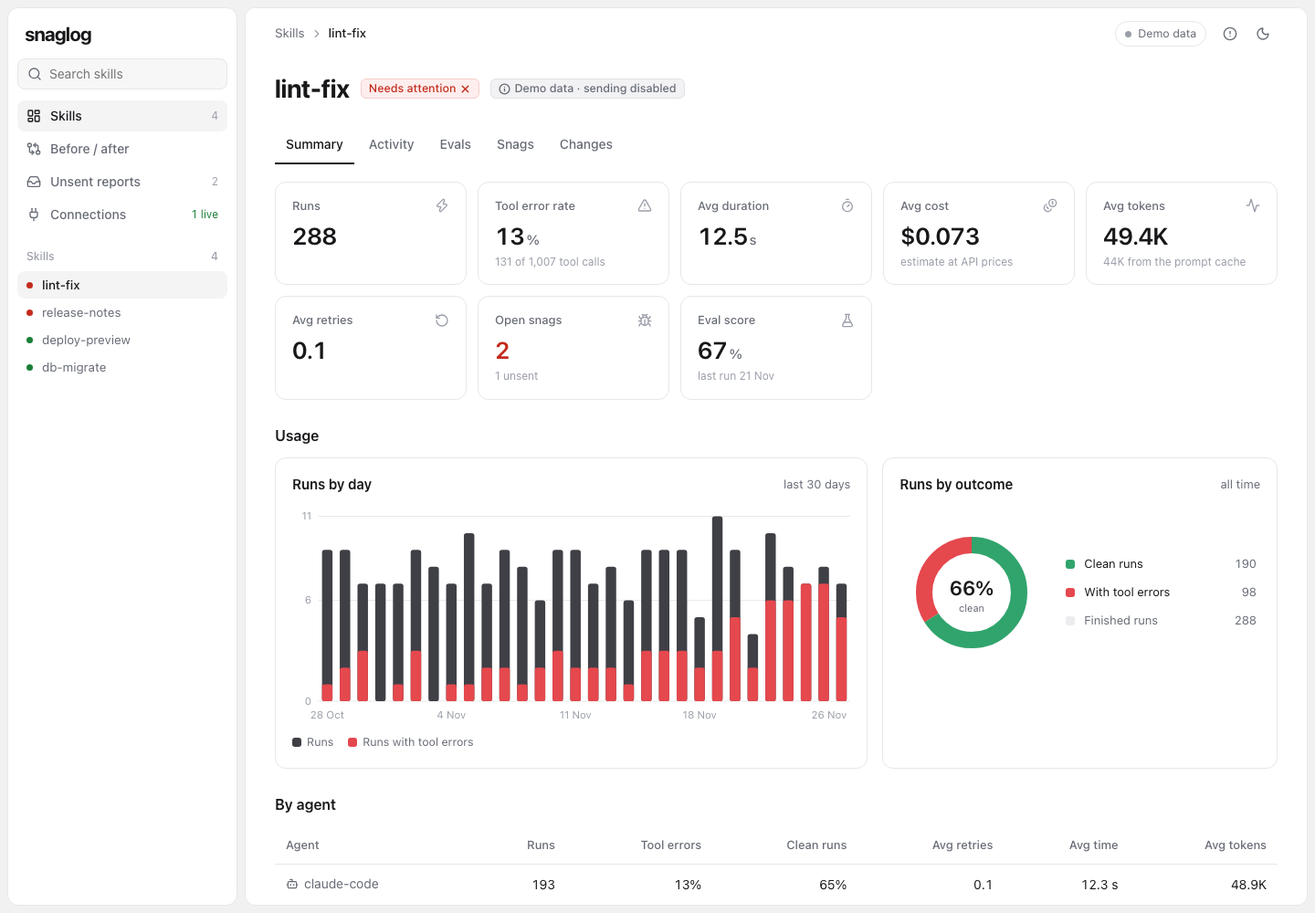
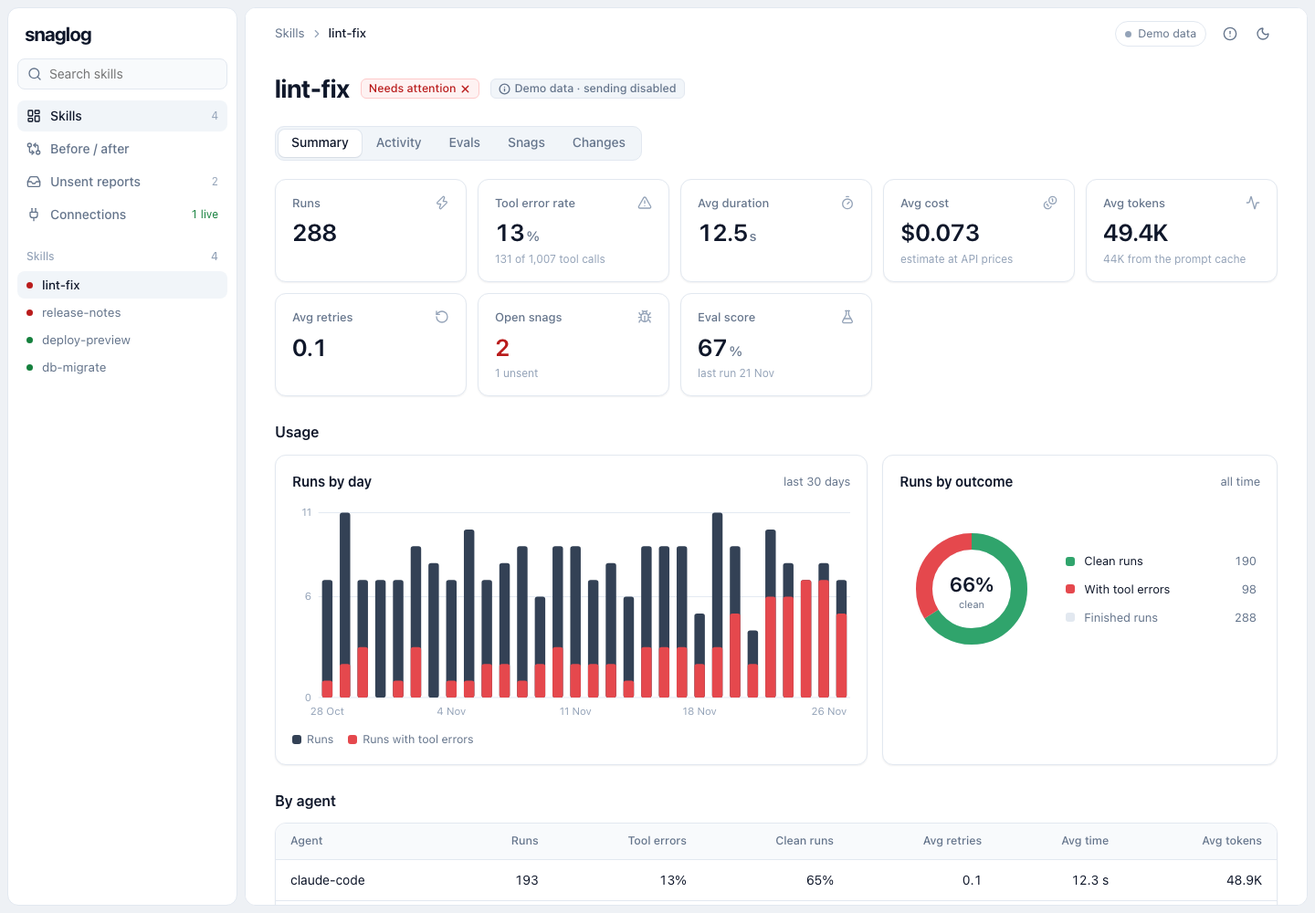
feat(dashboard): framed tables, custom selects and a slate palette
- Tables sit in a bordered frame with a shaded header row.
- Selects use a Lucide chevron instead of the native arrow.
- Skill tabs are a segmented control.
- Slate-based palette and soft card shadows in both themes.
- The receiver pill says "Collecting telemetry" and explains on hover
  that it records skill use only while the dashboard runs.
- Connections page has no icons; unsupported agents are a table with
  a status per agent.

diff --git a/cli/dashboard/index.html b/cli/dashboard/index.html
@@ -7,40 +7,43 @@
 <title>snaglog</title>
 <style nonce="__NONCE__">
 :root {
-  --canvas: #f1f1f2; --page: #ffffff; --side: #ffffff; --card: #ffffff; --hover: #f4f4f5; --sunken: #f7f7f8;
-  --line: #e7e7ea; --line-strong: #d9d9de;
-  --text: #18181b; --muted: #676b75; --faint: #9a9ea8;
-  --accent: #18181b; --accent-fg: #ffffff; --link: #0969da;
-  --ok: #1a7f37; --ok-bg: #e9f7ee; --ok-line: #c3e8cf;
-  --bad: #c42b1c; --bad-bg: #fdeeed; --bad-line: #f6cdca;
-  --warn: #9a6700; --warn-bg: #fff6e3; --warn-line: #f2deb0;
-  --neutral-bg: #f2f2f4; --neutral-line: #e2e2e7;
-  --chart-run: #3f3f46; --chart-bad: #e5484d; --chart-ok: #30a46c; --chart-track: #ececef;
+  --canvas: #eef1f5; --page: #ffffff; --side: #ffffff; --card: #ffffff; --hover: #f1f5f9; --sunken: #f8fafc;
+  --line: #e2e8f0; --line-strong: #cbd5e1;
+  --text: #0f172a; --muted: #64748b; --faint: #94a3b8;
+  --accent: #0f172a; --accent-fg: #ffffff; --link: #2563eb;
+  --ok: #15803d; --ok-bg: #ecfdf3; --ok-line: #bbf7d0;
+  --bad: #b91c1c; --bad-bg: #fef2f2; --bad-line: #fecaca;
+  --warn: #a16207; --warn-bg: #fefce8; --warn-line: #fde68a;
+  --neutral-bg: #f1f5f9; --neutral-line: #e2e8f0;
+  --chart-run: #334155; --chart-bad: #e5484d; --chart-ok: #30a46c; --chart-track: #e2e8f0;
+  --shadow: 0 1px 2px rgba(15, 23, 42, .06);
   color-scheme: light;
 }
 :root[data-theme="dark"] {
-  --canvas: #08090a; --page: #111214; --side: #111214; --card: #16171a; --hover: #1c1d21; --sunken: #18191c;
-  --line: #232428; --line-strong: #303237;
-  --text: #ececee; --muted: #a0a3ab; --faint: #6e727b;
-  --accent: #f4f4f5; --accent-fg: #111214; --link: #6cb6ff;
-  --ok: #4cc38a; --ok-bg: #12261b; --ok-line: #1f4a33;
-  --bad: #ff7b72; --bad-bg: #2d1515; --bad-line: #5a2421;
-  --warn: #e3b341; --warn-bg: #2a2110; --warn-line: #574313;
-  --neutral-bg: #1c1d21; --neutral-line: #2c2e34;
-  --chart-run: #c9cbd1; --chart-bad: #ff6369; --chart-ok: #4cc38a; --chart-track: #24262b;
+  --canvas: #020617; --page: #0b1120; --side: #0b1120; --card: #0f172a; --hover: #1e293b; --sunken: #111a2e;
+  --line: #1e293b; --line-strong: #334155;
+  --text: #e2e8f0; --muted: #94a3b8; --faint: #64748b;
+  --accent: #e2e8f0; --accent-fg: #0f172a; --link: #60a5fa;
+  --ok: #4ade80; --ok-bg: #0c2a1a; --ok-line: #166534;
+  --bad: #f87171; --bad-bg: #2a1215; --bad-line: #7f1d1d;
+  --warn: #facc15; --warn-bg: #2a2410; --warn-line: #713f12;
+  --neutral-bg: #1e293b; --neutral-line: #334155;
+  --chart-run: #cbd5e1; --chart-bad: #f87171; --chart-ok: #4ade80; --chart-track: #1e293b;
+  --shadow: 0 1px 2px rgba(0, 0, 0, .3);
   color-scheme: dark;
 }
 @media (prefers-color-scheme: dark) {
   :root:not([data-theme="light"]) {
-    --canvas: #08090a; --page: #111214; --side: #111214; --card: #16171a; --hover: #1c1d21; --sunken: #18191c;
-    --line: #232428; --line-strong: #303237;
-    --text: #ececee; --muted: #a0a3ab; --faint: #6e727b;
-    --accent: #f4f4f5; --accent-fg: #111214; --link: #6cb6ff;
-    --ok: #4cc38a; --ok-bg: #12261b; --ok-line: #1f4a33;
-    --bad: #ff7b72; --bad-bg: #2d1515; --bad-line: #5a2421;
-    --warn: #e3b341; --warn-bg: #2a2110; --warn-line: #574313;
-    --neutral-bg: #1c1d21; --neutral-line: #2c2e34;
-    --chart-run: #c9cbd1; --chart-bad: #ff6369; --chart-ok: #4cc38a; --chart-track: #24262b;
+    --canvas: #020617; --page: #0b1120; --side: #0b1120; --card: #0f172a; --hover: #1e293b; --sunken: #111a2e;
+    --line: #1e293b; --line-strong: #334155;
+    --text: #e2e8f0; --muted: #94a3b8; --faint: #64748b;
+    --accent: #e2e8f0; --accent-fg: #0f172a; --link: #60a5fa;
+    --ok: #4ade80; --ok-bg: #0c2a1a; --ok-line: #166534;
+    --bad: #f87171; --bad-bg: #2a1215; --bad-line: #7f1d1d;
+    --warn: #facc15; --warn-bg: #2a2410; --warn-line: #713f12;
+    --neutral-bg: #1e293b; --neutral-line: #334155;
+    --chart-run: #cbd5e1; --chart-bad: #f87171; --chart-ok: #4ade80; --chart-track: #1e293b;
+    --shadow: 0 1px 2px rgba(0, 0, 0, .3);
     color-scheme: dark;
   }
 }
@@ -63,7 +66,11 @@ button, select, input, textarea { font: inherit; color: var(--text); }
 .icon-btn { width: 32px; padding: 0; justify-content: center; border-color: transparent; background: transparent; color: var(--muted); }
 .icon-btn:hover { color: var(--text); }
 select, input[type="text"], input:not([type]), textarea { background: var(--card); border: 1px solid var(--line-strong); border-radius: 8px; padding: 6px 10px; }
-select { height: 32px; }
+.select { position: relative; display: inline-flex; align-items: center; max-width: 100%; }
+.select select { appearance: none; -webkit-appearance: none; height: 34px; max-width: 100%; padding: 0 34px 0 12px; border-radius: 8px; border: 1px solid var(--line-strong); background: var(--card); box-shadow: var(--shadow); cursor: pointer; text-overflow: ellipsis; }
+.select select:hover { border-color: var(--faint); }
+.select select:focus-visible { outline: 2px solid var(--link); outline-offset: 1px; }
+.select .ic { position: absolute; right: 10px; pointer-events: none; color: var(--muted); }
 
 /* shell: two separate panels on a tinted canvas */
 .app { display: grid; grid-template-columns: 252px minmax(0, 1fr); gap: 8px; padding: 8px; height: 100vh; }
@@ -98,7 +105,7 @@ select { height: 32px; }
 .topbar .crumbs .here { color: var(--text); font-weight: 500; }
 .topbar .crumbs .ic { color: var(--faint); }
 .topbar .right { margin-left: auto; display: flex; align-items: center; gap: 4px; }
-.status-pill { display: inline-flex; align-items: center; gap: 7px; height: 28px; margin-right: 6px; padding: 0 10px; border-radius: 999px; border: 1px solid var(--line); color: var(--muted); font-size: 12.5px; cursor: default; white-space: nowrap; }
+.status-pill { display: inline-flex; outline: none; align-items: center; gap: 7px; height: 28px; margin-right: 6px; padding: 0 10px; border-radius: 999px; border: 1px solid var(--line); color: var(--muted); font-size: 12.5px; cursor: default; white-space: nowrap; }
 .tip { position: relative; }
 .tip-box { display: none; position: absolute; right: 0; top: calc(100% + 6px); width: 280px; padding: 12px 14px; background: var(--card); border: 1px solid var(--line); border-radius: 10px; box-shadow: 0 8px 24px rgba(0, 0, 0, .10); font-size: 13px; color: var(--muted); z-index: 5; }
 .tip-box strong { display: block; color: var(--text); font-weight: 600; margin-bottom: 4px; }
@@ -129,7 +136,7 @@ h2 { font-size: 16px; font-weight: 600; margin: 28px 0 12px; }
 
 /* stat cards */
 .stats { display: grid; grid-template-columns: repeat(auto-fit, minmax(210px, 1fr)); gap: 12px; }
-.stat { padding: 16px 18px; background: var(--card); border: 1px solid var(--line); border-radius: 12px; }
+.stat { padding: 16px 18px; background: var(--card); border: 1px solid var(--line); border-radius: 12px; box-shadow: var(--shadow); }
 .stat .head { display: flex; align-items: center; justify-content: space-between; gap: 8px; color: var(--muted); font-size: 13px; font-weight: 500; }
 .stat .head .ic { color: var(--faint); }
 .stat .value { margin-top: 8px; font-size: 26px; font-weight: 600; font-variant-numeric: tabular-nums; letter-spacing: -0.02em; line-height: 1.2; }
@@ -147,10 +154,10 @@ h2 { font-size: 16px; font-weight: 600; margin: 28px 0 12px; }
 .tab-card.active .t { color: var(--text); }
 
 /* underline tabs (Plane-like) */
-.tabs { display: flex; gap: 4px; margin: 0 0 20px; }
-.tabs button { background: none; border: 0; padding: 10px 12px; margin-bottom: -1px; border-bottom: 2px solid transparent; color: var(--muted); cursor: pointer; font-weight: 500; }
+.tabs { display: inline-flex; gap: 2px; padding: 3px; margin: 0 0 20px; background: var(--hover); border: 1px solid var(--line); border-radius: 10px; }
+.tabs button { background: none; border: 0; height: 30px; padding: 0 14px; border-radius: 7px; color: var(--muted); cursor: pointer; font-weight: 500; }
 .tabs button:hover { color: var(--text); }
-.tabs button.active { color: var(--text); border-bottom-color: var(--text); }
+.tabs button.active { background: var(--card); color: var(--text); box-shadow: var(--shadow), 0 0 0 1px var(--line); }
 
 /* badges */
 .badge { display: inline-flex; align-items: center; gap: 4px; height: 22px; padding: 0 8px; border-radius: 6px; font-size: 12.5px; font-weight: 500; border: 1px solid var(--neutral-line); background: var(--neutral-bg); color: var(--muted); white-space: nowrap; }
@@ -160,10 +167,14 @@ h2 { font-size: 16px; font-weight: 600; margin: 28px 0 12px; }
 .badge.warn { background: var(--warn-bg); border-color: var(--warn-line); color: var(--warn); }
 
 /* tables (Stripe-like) */
-.table-wrap { overflow-x: auto; }
+.table-wrap { overflow-x: auto; background: var(--card); border: 1px solid var(--line); border-radius: 12px; box-shadow: var(--shadow); }
+.card .table-wrap { box-shadow: none; }
 table { width: 100%; border-collapse: collapse; }
-th, td { text-align: left; padding: 11px 12px; border-bottom: 1px solid var(--line); vertical-align: middle; white-space: nowrap; }
-th { font-weight: 500; font-size: 13px; color: var(--muted); }
+th, td { text-align: left; padding: 12px 12px; border-bottom: 1px solid var(--line); vertical-align: middle; white-space: nowrap; }
+tbody tr:last-child td { border-bottom: 0; }
+th:first-child, td:first-child { padding-left: 16px; }
+th:last-child, td:last-child { padding-right: 16px; }
+th { padding-top: 10px; padding-bottom: 10px; background: var(--sunken); font-weight: 500; font-size: 12.5px; color: var(--muted); }
 th[title] { cursor: help; }
 th.sortable { cursor: pointer; user-select: none; }
 th.sorted::after { content: " ↓"; color: var(--muted); }
@@ -182,12 +193,11 @@ tr.row-link:hover td { background: var(--hover); }
 .bars rect { fill: var(--chart-track); }
 .bars rect.on { fill: var(--chart-run); opacity: .55; }
 .bars rect.last { fill: var(--chart-run); opacity: 1; }
-.agents { display: inline-flex; align-items: center; gap: 6px; color: var(--muted); }
 
 /* cards and charts */
 .grid2 { display: grid; grid-template-columns: minmax(0, 1.5fr) minmax(0, 1fr); gap: 16px; }
 @media (max-width: 1100px) { .grid2 { grid-template-columns: 1fr; } }
-.card { background: var(--card); border: 1px solid var(--line); border-radius: 12px; padding: 18px; }
+.card { background: var(--card); border: 1px solid var(--line); border-radius: 12px; padding: 18px; box-shadow: var(--shadow); }
 .card h3 { margin: 0 0 14px; font-size: 15px; font-weight: 600; display: flex; align-items: center; gap: 8px; }
 .card h3 .meta { margin-left: auto; font-weight: 400; font-size: 13px; color: var(--muted); }
 .chart svg { width: 100%; height: auto; display: block; }
@@ -244,9 +254,9 @@ dl.defs dt { font-weight: 600; }
 dl.defs dd { margin: 0; color: var(--muted); }
 .delta.better { color: var(--ok); }
 .delta.worse { color: var(--bad); }
-.agent-list .agent { display: flex; align-items: center; gap: 14px; padding: 14px 4px; border-bottom: 1px solid var(--line); }
+.agent-list .agent { display: flex; align-items: flex-start; gap: 14px; padding: 16px 4px; border-bottom: 1px solid var(--line); }
 .agent-list .agent:last-child { border-bottom: 0; }
-.agent-list .icon { width: 36px; height: 36px; border-radius: 9px; background: var(--sunken); border: 1px solid var(--line); display: grid; place-items: center; color: var(--muted); flex: none; }
+.agent-list .mono { font-size: 12.5px; margin-top: 2px; }
 .agent-list .meta { margin-left: auto; text-align: right; display: flex; flex-direction: column; align-items: flex-end; gap: 4px; }
 .tips { margin: 6px 0 0; padding-left: 18px; color: var(--muted); font-size: 12.5px; }
 </style>
@@ -267,7 +277,10 @@ dl.defs dd { margin: 0; color: var(--muted); }
     <header class="topbar">
       <nav class="crumbs" id="crumbs" aria-label="Breadcrumb"></nav>
       <div class="right">
-        <span class="status-pill" id="recv"><span class="dot" id="recv-dot"></span><span id="recv-text">Receiver</span></span>
+        <span class="tip">
+          <span class="status-pill" id="recv" tabindex="0" aria-describedby="recv-tip"><span class="dot" id="recv-dot"></span><span id="recv-text">Telemetry</span></span>
+          <span class="tip-box" role="tooltip" id="recv-tip"></span>
+        </span>
         <span class="tip">
           <button class="btn icon-btn" type="button" aria-label="Where your data is kept" aria-describedby="privacy-tip"><span data-icon="circle-alert"></span></button>
           <span class="tip-box" role="tooltip" id="privacy-tip"><strong>Data stays on this machine</strong>Telemetry, eval results and unsent reports are stored locally. Nothing is sent anywhere until you send a report to GitHub.</span>
@@ -282,7 +295,7 @@ dl.defs dd { margin: 0; color: var(--muted); }
 'use strict';
 // Icons: Lucide (https://lucide.dev), ISC license, version 1.72.0.
 // See THIRD_PARTY_NOTICES.md. Shape data only; built with createElementNS.
-const ICONS = {"layout-dashboard":[["rect",{"width":"7","height":"9","x":"3","y":"3","rx":"1"}],["rect",{"width":"7","height":"5","x":"14","y":"3","rx":"1"}],["rect",{"width":"7","height":"9","x":"14","y":"12","rx":"1"}],["rect",{"width":"7","height":"5","x":"3","y":"16","rx":"1"}]],"git-compare-arrows":[["circle",{"cx":"5","cy":"6","r":"3"}],["path",{"d":"M12 6h5a2 2 0 0 1 2 2v7"}],["path",{"d":"m15 9-3-3 3-3"}],["circle",{"cx":"19","cy":"18","r":"3"}],["path",{"d":"M12 18H7a2 2 0 0 1-2-2V9"}],["path",{"d":"m9 15 3 3-3 3"}]],"inbox":[["polyline",{"points":"22 12 16 12 14 15 10 15 8 12 2 12"}],["path",{"d":"M5.45 5.11 2 12v6a2 2 0 0 0 2 2h16a2 2 0 0 0 2-2v-6l-3.45-6.89A2 2 0 0 0 16.76 4H7.24a2 2 0 0 0-1.79 1.11z"}]],"plug":[["path",{"d":"M12 22v-5"}],["path",{"d":"M15 8V2"}],["path",{"d":"M17 8a1 1 0 0 1 1 1v4a4 4 0 0 1-4 4h-4a4 4 0 0 1-4-4V9a1 1 0 0 1 1-1z"}],["path",{"d":"M9 8V2"}]],"search":[["path",{"d":"m21 21-4.34-4.34"}],["circle",{"cx":"11","cy":"11","r":"8"}]],"sun":[["circle",{"cx":"12","cy":"12","r":"4"}],["path",{"d":"M12 2v2"}],["path",{"d":"M12 20v2"}],["path",{"d":"m4.93 4.93 1.41 1.41"}],["path",{"d":"m17.66 17.66 1.41 1.41"}],["path",{"d":"M2 12h2"}],["path",{"d":"M20 12h2"}],["path",{"d":"m6.34 17.66-1.41 1.41"}],["path",{"d":"m19.07 4.93-1.41 1.41"}]],"moon":[["path",{"d":"M20.985 12.486a9 9 0 1 1-9.473-9.472c.405-.022.617.46.402.803a6 6 0 0 0 8.268 8.268c.344-.215.825-.004.803.401"}]],"check":[["path",{"d":"M20 6 9 17l-5-5"}]],"x":[["path",{"d":"M18 6 6 18"}],["path",{"d":"m6 6 12 12"}]],"clock":[["circle",{"cx":"12","cy":"12","r":"10"}],["path",{"d":"M12 6v6l4 2"}]],"triangle-alert":[["path",{"d":"m21.73 18-8-14a2 2 0 0 0-3.48 0l-8 14A2 2 0 0 0 4 21h16a2 2 0 0 0 1.73-3"}],["path",{"d":"M12 9v4"}],["path",{"d":"M12 17h.01"}]],"activity":[["path",{"d":"M22 12h-2.48a2 2 0 0 0-1.93 1.46l-2.35 8.36a.25.25 0 0 1-.48 0L9.24 2.18a.25.25 0 0 0-.48 0l-2.35 8.36A2 2 0 0 1 4.49 12H2"}]],"timer":[["line",{"x1":"10","x2":"14","y1":"2","y2":"2"}],["line",{"x1":"12","x2":"15","y1":"14","y2":"11"}],["circle",{"cx":"12","cy":"14","r":"8"}]],"coins":[["path",{"d":"M13.744 17.736a6 6 0 1 1-7.48-7.48"}],["path",{"d":"M15 6h1v4"}],["path",{"d":"m6.134 14.768.866-.5 2 3.464"}],["circle",{"cx":"16","cy":"8","r":"6"}]],"bug":[["path",{"d":"M12 20v-9"}],["path",{"d":"M14 7a4 4 0 0 1 4 4v3a6 6 0 0 1-12 0v-3a4 4 0 0 1 4-4z"}],["path",{"d":"M14.12 3.88 16 2"}],["path",{"d":"M21 21a4 4 0 0 0-3.81-4"}],["path",{"d":"M21 5a4 4 0 0 1-3.55 3.97"}],["path",{"d":"M22 13h-4"}],["path",{"d":"M3 21a4 4 0 0 1 3.81-4"}],["path",{"d":"M3 5a4 4 0 0 0 3.55 3.97"}],["path",{"d":"M6 13H2"}],["path",{"d":"m8 2 1.88 1.88"}],["path",{"d":"M9 7.13V6a3 3 0 1 1 6 0v1.13"}]],"flask-conical":[["path",{"d":"M14 2v6a2 2 0 0 0 .245.96l5.51 10.08A2 2 0 0 1 18 22H6a2 2 0 0 1-1.755-2.96l5.51-10.08A2 2 0 0 0 10 8V2"}],["path",{"d":"M6.453 15h11.094"}],["path",{"d":"M8.5 2h7"}]],"git-commit-horizontal":[["circle",{"cx":"12","cy":"12","r":"3"}],["line",{"x1":"3","x2":"9","y1":"12","y2":"12"}],["line",{"x1":"15","x2":"21","y1":"12","y2":"12"}]],"bot":[["path",{"d":"M12 8V4H8"}],["rect",{"width":"16","height":"12","x":"4","y":"8","rx":"2"}],["path",{"d":"M2 14h2"}],["path",{"d":"M20 14h2"}],["path",{"d":"M15 13v2"}],["path",{"d":"M9 13v2"}]],"chevron-right":[["path",{"d":"m9 18 6-6-6-6"}]],"external-link":[["path",{"d":"M15 3h6v6"}],["path",{"d":"M10 14 21 3"}],["path",{"d":"M18 13v6a2 2 0 0 1-2 2H5a2 2 0 0 1-2-2V8a2 2 0 0 1 2-2h6"}]],"send":[["path",{"d":"M14.536 21.686a.5.5 0 0 0 .937-.024l6.5-19a.496.496 0 0 0-.635-.635l-19 6.5a.5.5 0 0 0-.024.937l7.93 3.18a2 2 0 0 1 1.112 1.11z"}],["path",{"d":"m21.854 2.147-10.94 10.939"}]],"trash-2":[["path",{"d":"M10 11v6"}],["path",{"d":"M14 11v6"}],["path",{"d":"M19 6v14a2 2 0 0 1-2 2H7a2 2 0 0 1-2-2V6"}],["path",{"d":"M3 6h18"}],["path",{"d":"M8 6V4a2 2 0 0 1 2-2h4a2 2 0 0 1 2 2v2"}]],"info":[["circle",{"cx":"12","cy":"12","r":"10"}],["path",{"d":"M12 16v-4"}],["path",{"d":"M12 8h.01"}]],"zap":[["path",{"d":"M15.914 4a1.5 1.5 0 00-2.474-1.561l-9 9A1.5 1.5 0 005.5 14h4.002a.5.5 0 01.471.666L8.086 20a1.5 1.5 0 002.475 1.56l9-9A1.5 1.5 0 0018.5 10h-3.997a.5.5 0 01-.472-.667z"}]],"circle-check":[["circle",{"cx":"12","cy":"12","r":"10"}],["path",{"d":"m16 9-5.5 5.5L8 12"}]],"circle-x":[["circle",{"cx":"12","cy":"12","r":"10"}],["path",{"d":"m15 9-6 6"}],["path",{"d":"m9 9 6 6"}]],"circle-dashed":[["path",{"d":"M10.1 2.182a10 10 0 0 1 3.8 0"}],["path",{"d":"M13.9 21.818a10 10 0 0 1-3.8 0"}],["path",{"d":"M17.609 3.721a10 10 0 0 1 2.69 2.7"}],["path",{"d":"M2.182 13.9a10 10 0 0 1 0-3.8"}],["path",{"d":"M20.279 17.609a10 10 0 0 1-2.7 2.69"}],["path",{"d":"M21.818 10.1a10 10 0 0 1 0 3.8"}],["path",{"d":"M3.721 6.391a10 10 0 0 1 2.7-2.69"}],["path",{"d":"M6.391 20.279a10 10 0 0 1-2.69-2.7"}]],"rotate-ccw":[["path",{"d":"M3 12a9 9 0 1 0 9-9 9.75 9.75 0 0 0-6.74 2.74L3 8"}],["path",{"d":"M3 3v5h5"}]],"file-text":[["path",{"d":"M6 22a2 2 0 0 1-2-2V4a2 2 0 0 1 2-2h8a2.4 2.4 0 0 1 1.704.706l3.588 3.588A2.4 2.4 0 0 1 20 8v12a2 2 0 0 1-2 2z"}],["path",{"d":"M14 2v5a1 1 0 0 0 1 1h5"}],["path",{"d":"M10 9H8"}],["path",{"d":"M16 13H8"}],["path",{"d":"M16 17H8"}]],"save":[["path",{"d":"M15.2 3a2 2 0 0 1 1.4.6l3.8 3.8a2 2 0 0 1 .6 1.4V19a2 2 0 0 1-2 2H5a2 2 0 0 1-2-2V5a2 2 0 0 1 2-2z"}],["path",{"d":"M17 21v-7a1 1 0 0 0-1-1H8a1 1 0 0 0-1 1v7"}],["path",{"d":"M7 3v4a1 1 0 0 0 1 1h7"}]],"radio":[["path",{"d":"M16.247 7.761a6 6 0 0 1 0 8.478"}],["path",{"d":"M19.075 4.933a10 10 0 0 1 0 14.134"}],["path",{"d":"M4.925 19.067a10 10 0 0 1 0-14.134"}],["path",{"d":"M7.753 16.239a6 6 0 0 1 0-8.478"}],["circle",{"cx":"12","cy":"12","r":"2"}]],"circle-alert":[["circle",{"cx":"12","cy":"12","r":"10"}],["line",{"x1":"12","x2":"12","y1":"8","y2":"12"}],["line",{"x1":"12","x2":"12.01","y1":"16","y2":"16"}]],"layers":[["path",{"d":"M12.83 2.18a2 2 0 0 0-1.66 0L2.6 6.08a1 1 0 0 0 0 1.83l8.58 3.91a2 2 0 0 0 1.66 0l8.58-3.9a1 1 0 0 0 0-1.83z"}],["path",{"d":"M2 12a1 1 0 0 0 .58.91l8.6 3.91a2 2 0 0 0 1.65 0l8.58-3.9A1 1 0 0 0 22 12"}],["path",{"d":"M2 17a1 1 0 0 0 .58.91l8.6 3.91a2 2 0 0 0 1.65 0l8.58-3.9A1 1 0 0 0 22 17"}]]};
+const ICONS = {"layout-dashboard":[["rect",{"width":"7","height":"9","x":"3","y":"3","rx":"1"}],["rect",{"width":"7","height":"5","x":"14","y":"3","rx":"1"}],["rect",{"width":"7","height":"9","x":"14","y":"12","rx":"1"}],["rect",{"width":"7","height":"5","x":"3","y":"16","rx":"1"}]],"git-compare-arrows":[["circle",{"cx":"5","cy":"6","r":"3"}],["path",{"d":"M12 6h5a2 2 0 0 1 2 2v7"}],["path",{"d":"m15 9-3-3 3-3"}],["circle",{"cx":"19","cy":"18","r":"3"}],["path",{"d":"M12 18H7a2 2 0 0 1-2-2V9"}],["path",{"d":"m9 15 3 3-3 3"}]],"inbox":[["polyline",{"points":"22 12 16 12 14 15 10 15 8 12 2 12"}],["path",{"d":"M5.45 5.11 2 12v6a2 2 0 0 0 2 2h16a2 2 0 0 0 2-2v-6l-3.45-6.89A2 2 0 0 0 16.76 4H7.24a2 2 0 0 0-1.79 1.11z"}]],"plug":[["path",{"d":"M12 22v-5"}],["path",{"d":"M15 8V2"}],["path",{"d":"M17 8a1 1 0 0 1 1 1v4a4 4 0 0 1-4 4h-4a4 4 0 0 1-4-4V9a1 1 0 0 1 1-1z"}],["path",{"d":"M9 8V2"}]],"search":[["path",{"d":"m21 21-4.34-4.34"}],["circle",{"cx":"11","cy":"11","r":"8"}]],"sun":[["circle",{"cx":"12","cy":"12","r":"4"}],["path",{"d":"M12 2v2"}],["path",{"d":"M12 20v2"}],["path",{"d":"m4.93 4.93 1.41 1.41"}],["path",{"d":"m17.66 17.66 1.41 1.41"}],["path",{"d":"M2 12h2"}],["path",{"d":"M20 12h2"}],["path",{"d":"m6.34 17.66-1.41 1.41"}],["path",{"d":"m19.07 4.93-1.41 1.41"}]],"moon":[["path",{"d":"M20.985 12.486a9 9 0 1 1-9.473-9.472c.405-.022.617.46.402.803a6 6 0 0 0 8.268 8.268c.344-.215.825-.004.803.401"}]],"check":[["path",{"d":"M20 6 9 17l-5-5"}]],"x":[["path",{"d":"M18 6 6 18"}],["path",{"d":"m6 6 12 12"}]],"clock":[["circle",{"cx":"12","cy":"12","r":"10"}],["path",{"d":"M12 6v6l4 2"}]],"triangle-alert":[["path",{"d":"m21.73 18-8-14a2 2 0 0 0-3.48 0l-8 14A2 2 0 0 0 4 21h16a2 2 0 0 0 1.73-3"}],["path",{"d":"M12 9v4"}],["path",{"d":"M12 17h.01"}]],"activity":[["path",{"d":"M22 12h-2.48a2 2 0 0 0-1.93 1.46l-2.35 8.36a.25.25 0 0 1-.48 0L9.24 2.18a.25.25 0 0 0-.48 0l-2.35 8.36A2 2 0 0 1 4.49 12H2"}]],"timer":[["line",{"x1":"10","x2":"14","y1":"2","y2":"2"}],["line",{"x1":"12","x2":"15","y1":"14","y2":"11"}],["circle",{"cx":"12","cy":"14","r":"8"}]],"coins":[["path",{"d":"M13.744 17.736a6 6 0 1 1-7.48-7.48"}],["path",{"d":"M15 6h1v4"}],["path",{"d":"m6.134 14.768.866-.5 2 3.464"}],["circle",{"cx":"16","cy":"8","r":"6"}]],"bug":[["path",{"d":"M12 20v-9"}],["path",{"d":"M14 7a4 4 0 0 1 4 4v3a6 6 0 0 1-12 0v-3a4 4 0 0 1 4-4z"}],["path",{"d":"M14.12 3.88 16 2"}],["path",{"d":"M21 21a4 4 0 0 0-3.81-4"}],["path",{"d":"M21 5a4 4 0 0 1-3.55 3.97"}],["path",{"d":"M22 13h-4"}],["path",{"d":"M3 21a4 4 0 0 1 3.81-4"}],["path",{"d":"M3 5a4 4 0 0 0 3.55 3.97"}],["path",{"d":"M6 13H2"}],["path",{"d":"m8 2 1.88 1.88"}],["path",{"d":"M9 7.13V6a3 3 0 1 1 6 0v1.13"}]],"flask-conical":[["path",{"d":"M14 2v6a2 2 0 0 0 .245.96l5.51 10.08A2 2 0 0 1 18 22H6a2 2 0 0 1-1.755-2.96l5.51-10.08A2 2 0 0 0 10 8V2"}],["path",{"d":"M6.453 15h11.094"}],["path",{"d":"M8.5 2h7"}]],"git-commit-horizontal":[["circle",{"cx":"12","cy":"12","r":"3"}],["line",{"x1":"3","x2":"9","y1":"12","y2":"12"}],["line",{"x1":"15","x2":"21","y1":"12","y2":"12"}]],"bot":[["path",{"d":"M12 8V4H8"}],["rect",{"width":"16","height":"12","x":"4","y":"8","rx":"2"}],["path",{"d":"M2 14h2"}],["path",{"d":"M20 14h2"}],["path",{"d":"M15 13v2"}],["path",{"d":"M9 13v2"}]],"chevron-down":[["path",{"d":"m6 9 6 6 6-6"}]],"chevron-right":[["path",{"d":"m9 18 6-6-6-6"}]],"external-link":[["path",{"d":"M15 3h6v6"}],["path",{"d":"M10 14 21 3"}],["path",{"d":"M18 13v6a2 2 0 0 1-2 2H5a2 2 0 0 1-2-2V8a2 2 0 0 1 2-2h6"}]],"send":[["path",{"d":"M14.536 21.686a.5.5 0 0 0 .937-.024l6.5-19a.496.496 0 0 0-.635-.635l-19 6.5a.5.5 0 0 0-.024.937l7.93 3.18a2 2 0 0 1 1.112 1.11z"}],["path",{"d":"m21.854 2.147-10.94 10.939"}]],"trash-2":[["path",{"d":"M10 11v6"}],["path",{"d":"M14 11v6"}],["path",{"d":"M19 6v14a2 2 0 0 1-2 2H7a2 2 0 0 1-2-2V6"}],["path",{"d":"M3 6h18"}],["path",{"d":"M8 6V4a2 2 0 0 1 2-2h4a2 2 0 0 1 2 2v2"}]],"info":[["circle",{"cx":"12","cy":"12","r":"10"}],["path",{"d":"M12 16v-4"}],["path",{"d":"M12 8h.01"}]],"zap":[["path",{"d":"M15.914 4a1.5 1.5 0 00-2.474-1.561l-9 9A1.5 1.5 0 005.5 14h4.002a.5.5 0 01.471.666L8.086 20a1.5 1.5 0 002.475 1.56l9-9A1.5 1.5 0 0018.5 10h-3.997a.5.5 0 01-.472-.667z"}]],"circle-check":[["circle",{"cx":"12","cy":"12","r":"10"}],["path",{"d":"m16 9-5.5 5.5L8 12"}]],"circle-x":[["circle",{"cx":"12","cy":"12","r":"10"}],["path",{"d":"m15 9-6 6"}],["path",{"d":"m9 9 6 6"}]],"circle-dashed":[["path",{"d":"M10.1 2.182a10 10 0 0 1 3.8 0"}],["path",{"d":"M13.9 21.818a10 10 0 0 1-3.8 0"}],["path",{"d":"M17.609 3.721a10 10 0 0 1 2.69 2.7"}],["path",{"d":"M2.182 13.9a10 10 0 0 1 0-3.8"}],["path",{"d":"M20.279 17.609a10 10 0 0 1-2.7 2.69"}],["path",{"d":"M21.818 10.1a10 10 0 0 1 0 3.8"}],["path",{"d":"M3.721 6.391a10 10 0 0 1 2.7-2.69"}],["path",{"d":"M6.391 20.279a10 10 0 0 1-2.69-2.7"}]],"rotate-ccw":[["path",{"d":"M3 12a9 9 0 1 0 9-9 9.75 9.75 0 0 0-6.74 2.74L3 8"}],["path",{"d":"M3 3v5h5"}]],"file-text":[["path",{"d":"M6 22a2 2 0 0 1-2-2V4a2 2 0 0 1 2-2h8a2.4 2.4 0 0 1 1.704.706l3.588 3.588A2.4 2.4 0 0 1 20 8v12a2 2 0 0 1-2 2z"}],["path",{"d":"M14 2v5a1 1 0 0 0 1 1h5"}],["path",{"d":"M10 9H8"}],["path",{"d":"M16 13H8"}],["path",{"d":"M16 17H8"}]],"save":[["path",{"d":"M15.2 3a2 2 0 0 1 1.4.6l3.8 3.8a2 2 0 0 1 .6 1.4V19a2 2 0 0 1-2 2H5a2 2 0 0 1-2-2V5a2 2 0 0 1 2-2z"}],["path",{"d":"M17 21v-7a1 1 0 0 0-1-1H8a1 1 0 0 0-1 1v7"}],["path",{"d":"M7 3v4a1 1 0 0 0 1 1h7"}]],"radio":[["path",{"d":"M16.247 7.761a6 6 0 0 1 0 8.478"}],["path",{"d":"M19.075 4.933a10 10 0 0 1 0 14.134"}],["path",{"d":"M4.925 19.067a10 10 0 0 1 0-14.134"}],["path",{"d":"M7.753 16.239a6 6 0 0 1 0-8.478"}],["circle",{"cx":"12","cy":"12","r":"2"}]],"circle-alert":[["circle",{"cx":"12","cy":"12","r":"10"}],["line",{"x1":"12","x2":"12","y1":"8","y2":"12"}],["line",{"x1":"12","x2":"12.01","y1":"16","y2":"16"}]],"layers":[["path",{"d":"M12.83 2.18a2 2 0 0 0-1.66 0L2.6 6.08a1 1 0 0 0 0 1.83l8.58 3.91a2 2 0 0 0 1.66 0l8.58-3.9a1 1 0 0 0 0-1.83z"}],["path",{"d":"M2 12a1 1 0 0 0 .58.91l8.6 3.91a2 2 0 0 0 1.65 0l8.58-3.9A1 1 0 0 0 22 12"}],["path",{"d":"M2 17a1 1 0 0 0 .58.91l8.6 3.91a2 2 0 0 0 1.65 0l8.58-3.9A1 1 0 0 0 22 17"}]]};
 const TOKEN = document.querySelector('meta[name="snaglog-token"]').content;
 const app = document.getElementById('app');
 const SVGNS = 'http://www.w3.org/2000/svg';
@@ -381,6 +394,9 @@ function stat(iconName, defKey, value, unit, { cls, note, label } = {}) {
     h('div', { class: `value ${cls || ''}` }, value, unit ? h('span', { class: 'unit', text: unit }) : null),
     note ? h('div', { class: 'note', text: note }) : null);
 }
+function selectBox(...args) {
+  return h('span', { class: 'select' }, h(...args), icon('chevron-down', 'sm'));
+}
 function empty(iconName, text, ...extra) {
   return h('div', { class: 'empty' }, icon(iconName), h('div', { text }), ...extra);
 }
@@ -451,14 +467,14 @@ async function refreshChrome() {
     el.classList.toggle('live', el.dataset.count === 'live' && live > 0);
   }
   const recv = conn.receiver;
-  const [dc, label, hint] = recv.running
-    ? ['ok', `Receiving on :${recv.port}`, `Collecting telemetry on 127.0.0.1:${recv.port}`]
+  const [dc, label, head, hint] = recv.running
+    ? ['ok', 'Collecting telemetry', 'Collecting telemetry', `Connected agents report which skills they use to 127.0.0.1:${recv.port} on this machine. This happens only while the dashboard is running.`]
     : META.demo
-      ? ['', 'Demo data', 'Demo mode shows generated data; no telemetry is collected']
-      : ['bad', 'Receiver off', recv.error ? `Not collecting telemetry: ${recv.error}` : 'Not collecting telemetry (started with --no-receiver)'];
+      ? ['', 'Demo data', 'Demo data', 'This page shows generated sample data. No telemetry is collected.']
+      : ['bad', 'Not collecting', 'Not collecting telemetry', recv.error || 'The dashboard was started with --no-receiver, so skill use is not recorded.'];
   document.getElementById('recv-dot').className = `dot ${dc}`;
   document.getElementById('recv-text').textContent = label;
-  document.getElementById('recv').title = hint;
+  document.getElementById('recv-tip').replaceChildren(h('strong', { text: head }), hint);
   renderSkillList(currentSkill());
 }
 
@@ -624,7 +640,7 @@ async function skillPage(name, tabName = 'summary') {
       ),
       h('h2', { text: 'By agent' }),
       d.byAgent.length ? sortableTable([
-        { key: 'agent', label: 'Agent', cell: (a) => h('span', { class: 'agents' }, icon('bot', 'sm'), a.agent), sort: (a) => a.agent },
+        { key: 'agent', label: 'Agent', cell: (a) => a.agent, sort: (a) => a.agent },
         { key: 'inv', label: 'Runs', def: 'runs', num: true, cell: (a) => num(a.invocations), sort: (a) => a.invocations },
         { key: 'err', label: 'Tool errors', def: 'errorRate', num: true, cell: (a) => pct(a.errorRate), sort: (a) => a.errorRate },
         { key: 'clean', label: 'Clean runs', def: 'cleanRate', num: true, cell: (a) => pct(a.cleanRate), sort: (a) => a.cleanRate },
@@ -688,8 +704,8 @@ async function comparePage(skill, commit) {
   skill = skill || skills[0];
   const changes = skill ? (await api(`/api/skill/${encodeURIComponent(skill)}`)).changes : [];
   commit = commit || changes[0]?.commit;
-  const skillSelect = h('select', { 'aria-label': 'Skill', onchange: (e) => { location.hash = `#/compare/${encodeURIComponent(e.target.value)}`; } }, skills.map((x) => h('option', { value: x, selected: x === skill, text: x })));
-  const changeSelect = h('select', { 'aria-label': 'SKILL.md change', onchange: (e) => { location.hash = `#/compare/${encodeURIComponent(skill)}/${e.target.value}`; } }, changes.map((c) => h('option', { value: c.commit, selected: c.commit === commit, text: `${dayYear(c.date)} · ${c.commit.slice(0, 7)} · ${c.subject}` })));
+  const skillSelect = selectBox('select', { 'aria-label': 'Skill', onchange: (e) => { location.hash = `#/compare/${encodeURIComponent(e.target.value)}`; } }, skills.map((x) => h('option', { value: x, selected: x === skill, text: x })));
+  const changeSelect = selectBox('select', { 'aria-label': 'SKILL.md change', onchange: (e) => { location.hash = `#/compare/${encodeURIComponent(skill)}/${e.target.value}`; } }, changes.map((c) => h('option', { value: c.commit, selected: c.commit === commit, text: `${dayYear(c.date)} · ${c.commit.slice(0, 7)} · ${c.subject}` })));
   const controls = h('div', { class: 'controls' }, h('label', {}, 'Skill', skillSelect), changes.length ? h('label', {}, 'Change', changeSelect) : null);
   if (!skill || !commit) {
     render(title('Before / after', { lead: 'Did a SKILL.md change help?' }), controls, empty('git-compare-arrows', 'No SKILL.md changes found.', h('p', {}, 'Start the dashboard in the project, or pass ', h('code', { text: '--path' }), '.')));
@@ -784,21 +800,31 @@ function reportCard(r) {
   return card;
 }
 
+const AGENT_NAMES = { copilot: 'GitHub Copilot', opencode: 'OpenCode', cursor: 'Cursor', gemini: 'Gemini CLI', chatgpt: 'ChatGPT' };
+function supportStatus(reason) {
+  if (/planned/i.test(reason)) return h('span', { class: 'badge warn' }, 'Planned');
+  if (/cannot/i.test(reason)) return h('span', { class: 'badge bad' }, 'Not possible');
+  return h('span', { class: 'badge' }, 'No official export');
+}
+
 async function connectionsPage() {
   const d = await api('/api/connections');
   const recv = d.receiver;
   const live = (a) => a.lastEventAt && Date.now() - Date.parse(a.lastEventAt) < 15 * 60000;
   render(
-    title('Connections', { lead: 'Which agents send telemetry to snaglog.' }),
+    title('Connections', { lead: 'Which agents report skill use to snaglog. Telemetry is collected only while this dashboard is running.' }),
     recv.running
-      ? h('div', { class: 'notice ok' }, icon('radio'), h('strong', { text: `Receiving on 127.0.0.1:${recv.port}` }), recv.rejected ? h('span', { class: 'muted', text: `${recv.rejected} request(s) rejected; last reason: ${recv.lastRejectReason}` }) : h('span', { class: 'muted', text: 'Telemetry stays on this machine.' }))
-      : h('div', { class: `notice ${recv.error ? 'bad' : ''}` }, icon('radio'), h('strong', { text: META.demo && !recv.error ? 'Demo data' : 'Receiver off' }), h('span', { class: 'muted', text: recv.error || (META.demo ? 'Demo mode shows generated data; no telemetry is collected.' : 'Started with --no-receiver.') })),
+      ? h('div', { class: 'notice ok' }, h('strong', { text: 'Collecting telemetry' }), recv.rejected ? h('span', { class: 'muted', text: `${recv.rejected} request(s) rejected; last reason: ${recv.lastRejectReason}` }) : h('span', { class: 'muted', text: `Listening on 127.0.0.1:${recv.port}. Nothing leaves this machine.` }))
+      : h('div', { class: `notice ${recv.error ? 'bad' : ''}` }, h('strong', { text: META.demo && !recv.error ? 'Demo data' : 'Not collecting telemetry' }), h('span', { class: 'muted', text: recv.error || (META.demo ? 'Demo mode shows generated data; no telemetry is collected.' : 'Started with --no-receiver.') })),
     h('div', { class: 'card agent-list' }, d.agents.map((a) => h('div', { class: 'agent' },
-      h('span', { class: 'icon' }, icon('bot')),
       h('div', {}, h('strong', { text: a.label }), h('div', { class: 'muted mono', text: a.file || 'Not connected' }), live(a) ? null : h('ul', { class: 'tips' }, a.tips.map((t) => h('li', { text: t })))),
-      h('div', { class: 'meta' }, live(a) ? h('span', { class: 'badge ok' }, 'Live', icon('check')) : a.connected ? h('span', { class: 'badge' }, 'Connected', icon('clock')) : h('span', { class: 'badge' }, 'Not connected'), h('div', { class: 'muted', text: `last event ${ago(a.lastEventAt)}` }))))),
-    h('h2', { text: 'Not supported' }),
-    h('div', { class: 'card' }, h('ul', { class: 'tips' }, d.unsupported.map((u) => h('li', {}, h('strong', { text: u.agent }), ` — ${u.reason}`)))),
+      h('div', { class: 'meta' }, live(a) ? h('span', { class: 'badge ok' }, 'Live') : a.connected ? h('span', { class: 'badge' }, 'Connected') : h('span', { class: 'badge' }, 'Not connected'), h('div', { class: 'muted', text: `last event ${ago(a.lastEventAt)}` }))))),
+    h('h2', { text: 'Not supported yet' }),
+    sortableTable([
+      { key: 'agent', label: 'Agent', cell: (u) => h('strong', { text: AGENT_NAMES[u.agent] || u.agent }) },
+      { key: 'status', label: 'Status', cell: (u) => supportStatus(u.reason) },
+      { key: 'reason', label: 'Why', wrap: true, cell: (u) => h('span', { class: 'muted', text: u.reason }) },
+    ], d.unsupported),
   );
 }
 

diff --git a/THIRD_PARTY_NOTICES.md b/THIRD_PARTY_NOTICES.md
@@ -4,7 +4,7 @@ snaglog has no runtime dependencies. It embeds the following third-party materia
 
 ## Lucide icons
 
-The dashboard (`cli/dashboard/index.html`) embeds the shape data of 33 icons from [Lucide](https://lucide.dev) (package `lucide-static` 1.72.0, https://github.com/lucide-icons/lucide): `layout-dashboard`, `git-compare-arrows`, `inbox`, `plug`, `search`, `sun`, `moon`, `check`, `x`, `clock`, `triangle-alert`, `activity`, `timer`, `coins`, `bug`, `flask-conical`, `git-commit-horizontal`, `bot`, `chevron-right`, `external-link`, `send`, `trash-2`, `info`, `zap`, `circle-check`, `circle-x`, `circle-dashed`, `rotate-ccw`, `file-text`, `save`, `radio`, `layers`, `circle-alert`.
+The dashboard (`cli/dashboard/index.html`) embeds the shape data of 34 icons from [Lucide](https://lucide.dev) (package `lucide-static` 1.72.0, https://github.com/lucide-icons/lucide): `layout-dashboard`, `git-compare-arrows`, `inbox`, `plug`, `search`, `sun`, `moon`, `check`, `x`, `clock`, `triangle-alert`, `activity`, `timer`, `coins`, `bug`, `flask-conical`, `git-commit-horizontal`, `bot`, `chevron-right`, `external-link`, `send`, `trash-2`, `info`, `zap`, `circle-check`, `circle-x`, `circle-dashed`, `rotate-ccw`, `file-text`, `save`, `radio`, `layers`, `circle-alert`, `chevron-down`.
 
 Only the drawing elements (`path`, `circle`, `rect`, `line`, `polyline`, `polygon`, `ellipse`) and their geometry attributes are kept. Their license:
 
